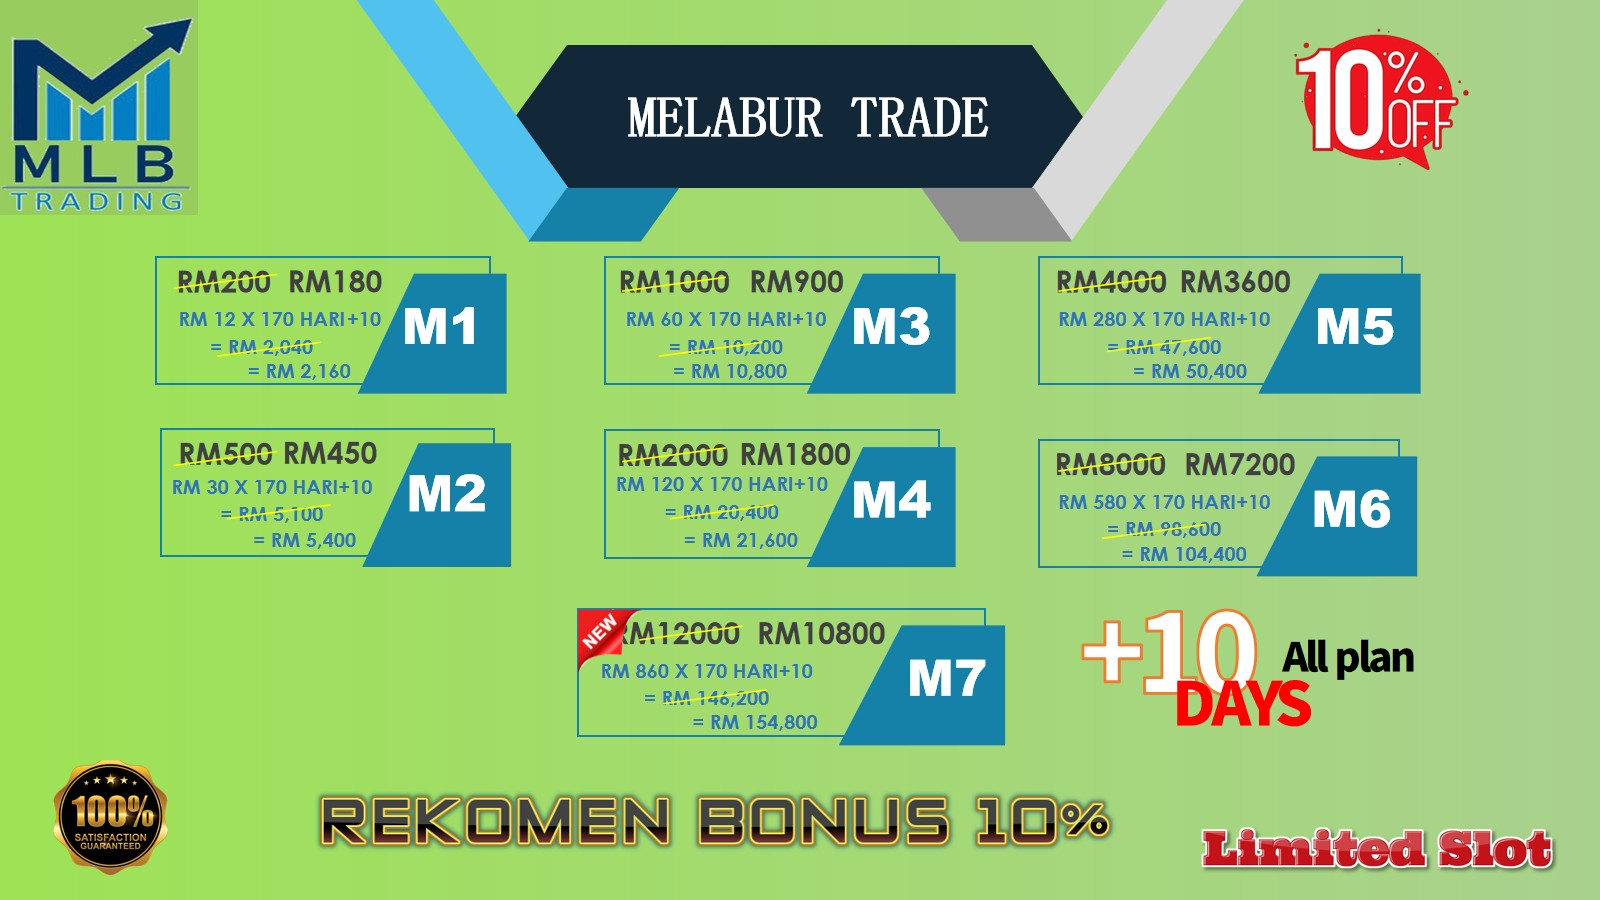
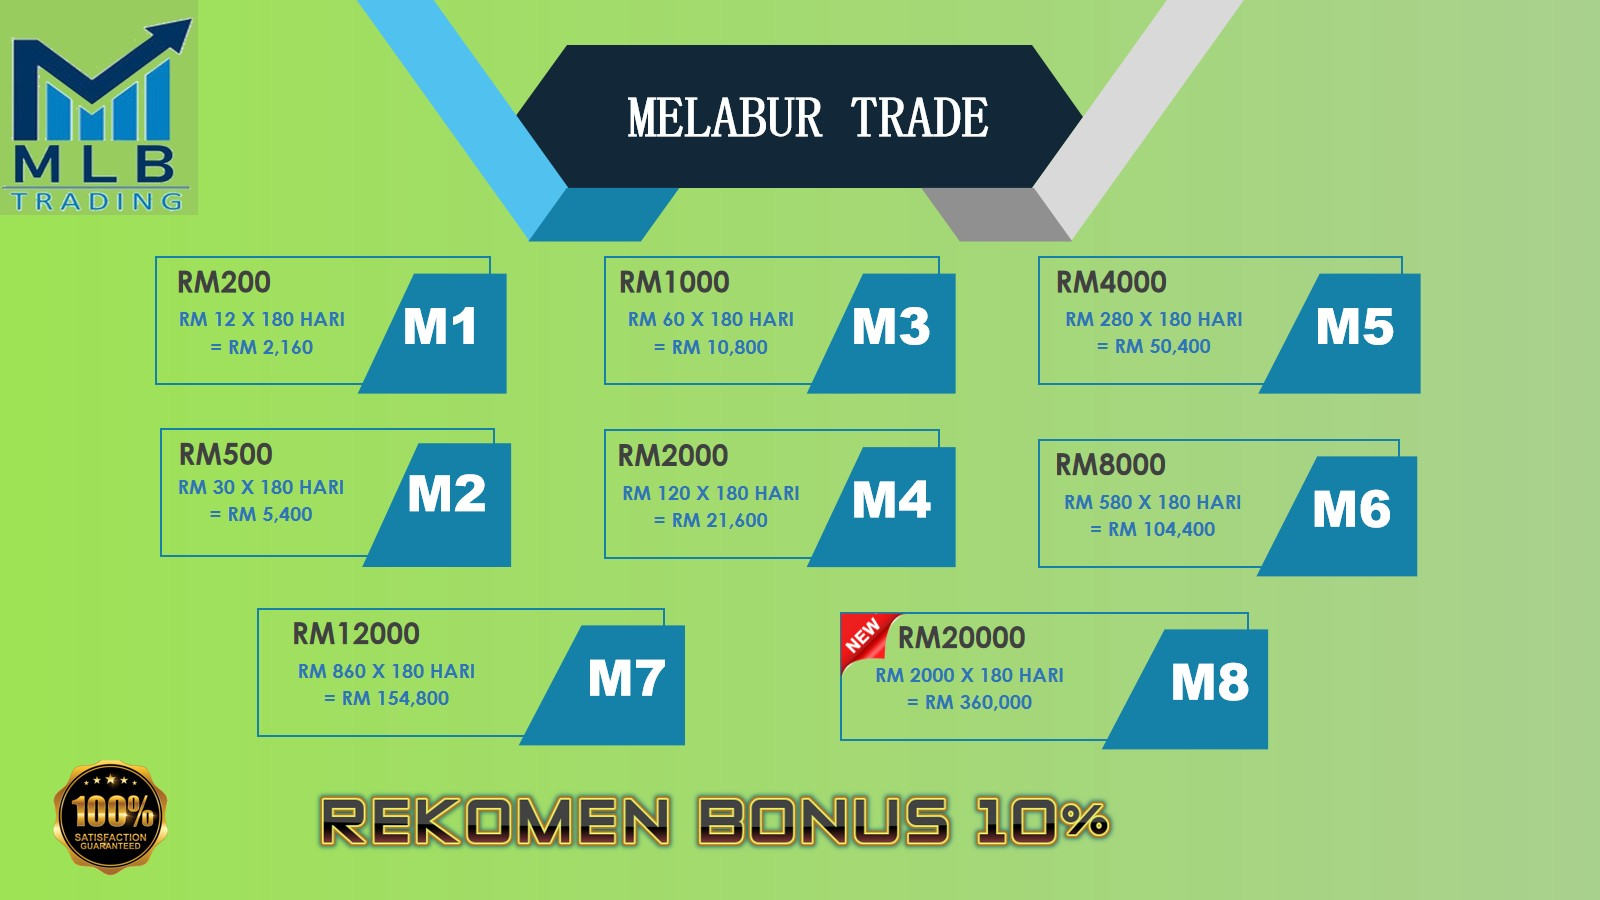
add new plan

diff --git a/plan.html b/plan.html
@@ -130,6 +130,11 @@
                 RM 860 x 180 days = RM 154,800
             </div>
             
+            <div class="box center-text">
+                ♻ PLAN RM 20000 <br>
+                RM 2000 x 180 days = RM 360,000
+            </div>
+            
         </div>
 
     </section>
